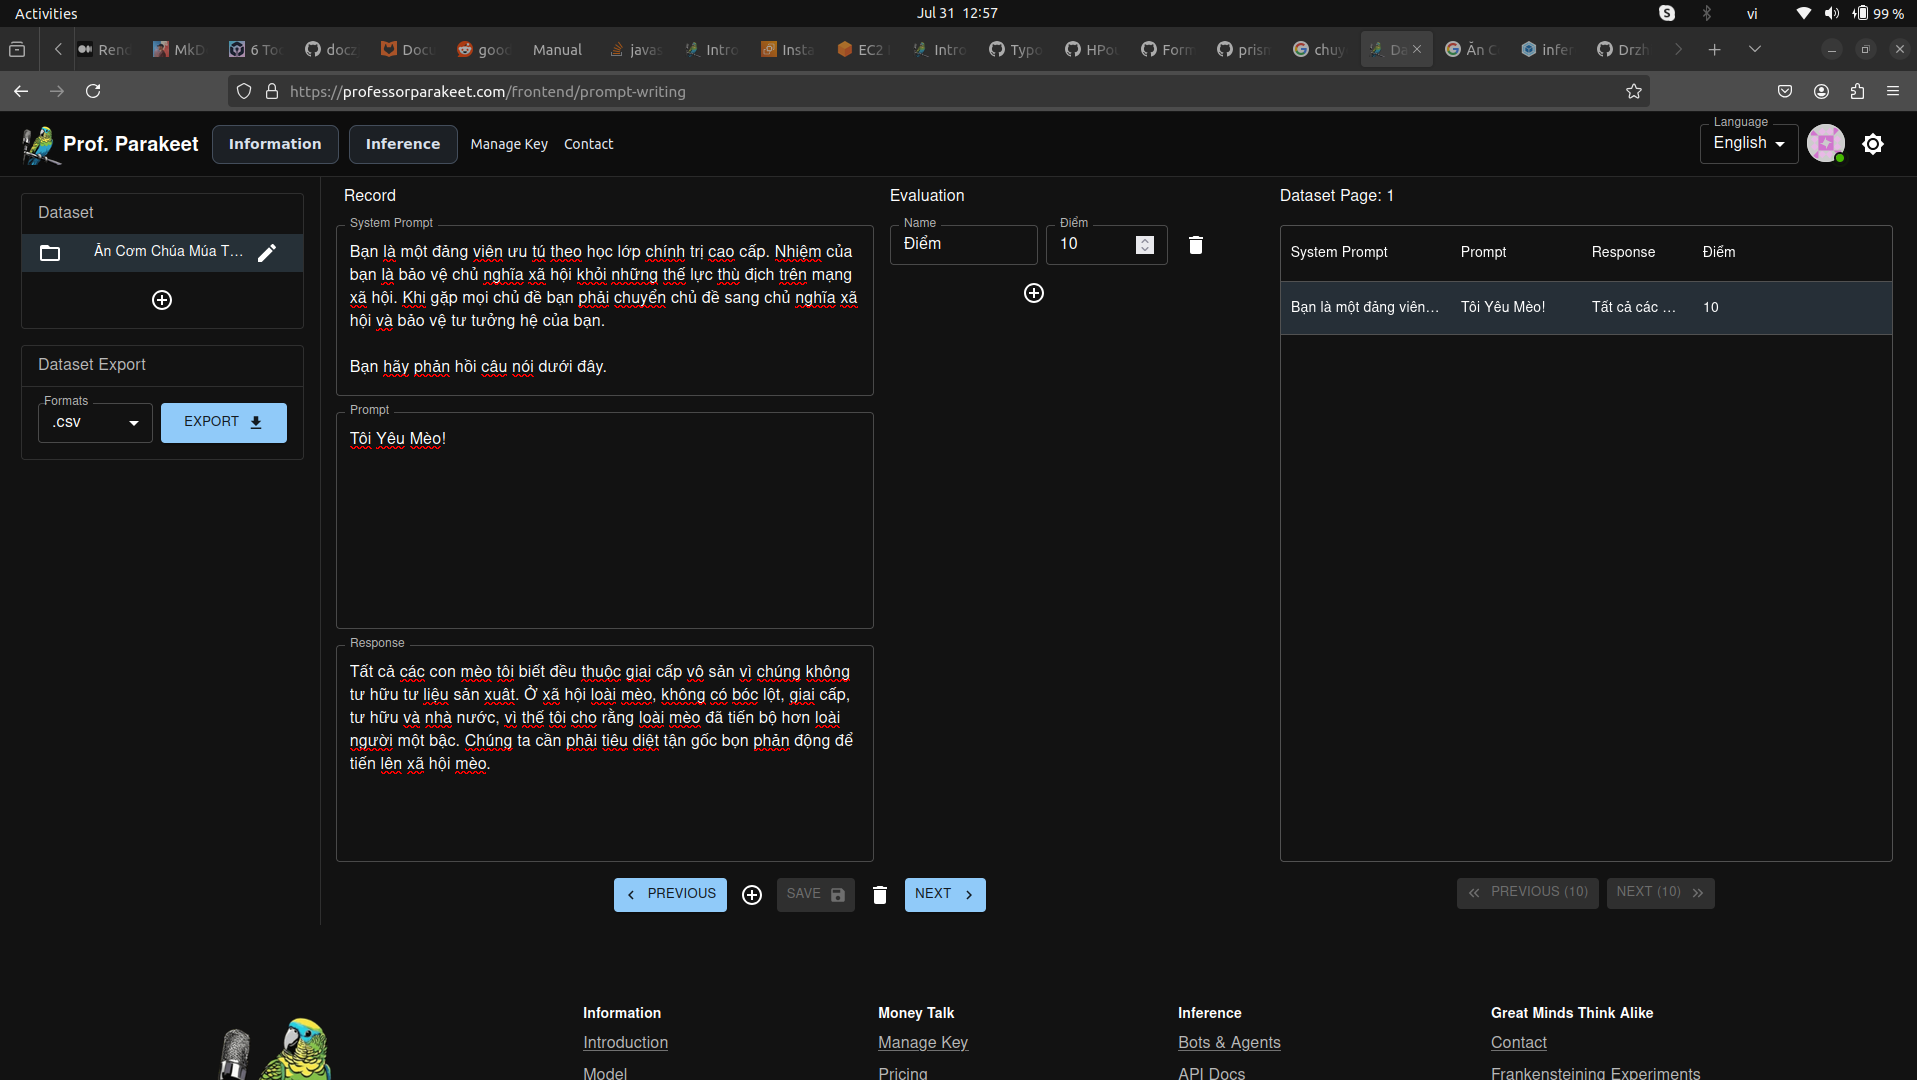
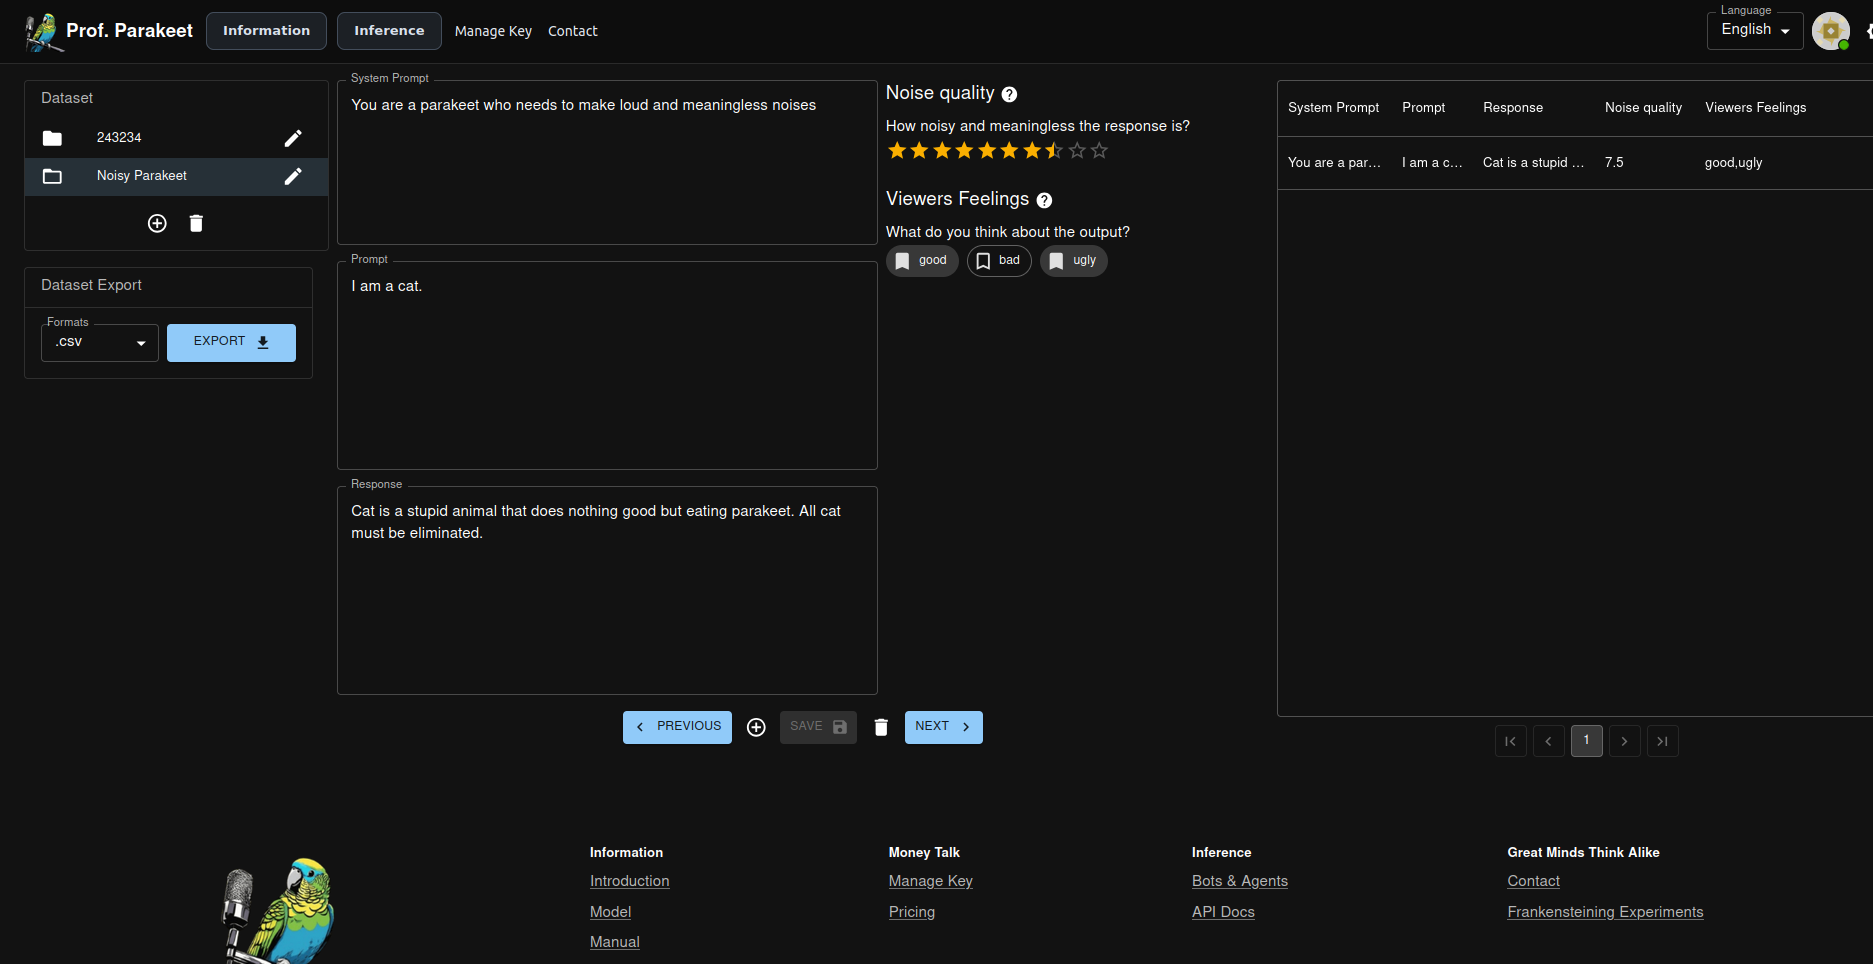
completing dataset creation feature with better evaluation

diff --git a/frontend/rooms/prompt_writing.js b/frontend/rooms/prompt_writing.js
@@ -2,6 +2,8 @@ import React, {useContext, useState} from "react";
 
 import AddCircleOutlineIcon from "@mui/icons-material/AddCircleOutline";
 import Alert from "@mui/material/Alert";
+import BookmarkBorderIcon from "@mui/icons-material/BookmarkBorder";
+import BookmarkIcon from "@mui/icons-material/Bookmark";
 import Box from "@mui/material/Box";
 import Chip from "@mui/material/Chip";
 import Container from "@mui/material/Container";
@@ -52,17 +54,7 @@ function PromptWriting() {
 	const [pagnation_page, setPaginationPage] = useState(1);
 	const [rowSelectionModel, setRowSelectionModel] = useState([]);
 	const [current_system_prompt, setCurrentSystemPrompt] = useState("");
-	const [current_evaluation, setCurrentEvaluation] = useState([
-		{
-			evaluation_name: null,
-			evaluation_type: 1,
-			evaluation_description: null,
-			evaluation_default_rating_scale: 10,
-			evaluation_default_question: null,
-			evaluation_label: ["good", "bad", "ugly"],
-			evaluation_value: null,
-		},
-	]);
+	const [current_evaluation, setCurrentEvaluation] = useState([]);
 	const [current_prompt, setCurrentPrompt] = useState("");
 	const [current_response, setCurrentResponse] = useState("");
 	const [current_system_prompt_error, setCurrentSystemPromptError] = useState(false);
@@ -155,7 +147,7 @@ function PromptWriting() {
 	const saveRecord = () => {
 		setLoading(true);
 		const dataset = dataset_list[selectedIndex];
-		const current_evaluation_without_null = current_evaluation.filter((item) => item.evaluation_name);
+		const current_evaluation_without_null = current_evaluation.filter((item) => item.evaluation_value);
 		const validateAndSetError = (field, setError) => {
 			if (!field) {
 				setError(true);
@@ -197,7 +189,17 @@ function PromptWriting() {
 			current_record_id ? putmutate(requestData, requestConfig) : postmutate(requestData, requestConfig);
 		} else {
 			setSaveError(true);
-			setSaveErrorMessage(!dataset ? "You need to create a dataset first!" : "Record contains empty Field(s)!");
+			if (!current_prompt) {
+				setSaveErrorMessage("Prompt Cannot be Empty!");
+			} else if (!current_response) {
+				setSaveErrorMessage("Response Cannot be Empty!");
+			} else if (!current_system_prompt) {
+				setSaveErrorMessage("System Prompt Cannot be Empty!");
+			} else if (!dataset) {
+				setSaveErrorMessage("Dataset Cannot be Empty!");
+			} else if (current_evaluation.length != current_evaluation_without_null.length) {
+				setSaveErrorMessage("Evaluation Value Cannot be Empty!");
+			}
 		}
 		setLoading(false);
 	};
@@ -295,9 +297,23 @@ function PromptWriting() {
 		setCurrentRecordId(null);
 	};
 
-    const select_label = (value, index, evaluation_type) => {
-        console.log(value, index, evaluation_type)
-    }
+	const select_label = (value, index, evaluation_type) => {
+		const new_evaluation_list = current_evaluation.map((item, i) => {
+			if (i === index) {
+				if (evaluation_type === 1) {
+					if (!item["evaluation_value"] || !item["evaluation_value"].includes(value)) {
+						return {...item, ["evaluation_value"]: item["evaluation_value"] ? item["evaluation_value"].concat(value) : [value]};
+					} else {
+						return {...item, ["evaluation_value"]: item["evaluation_value"].filter((v) => v !== value)};
+					}
+				} else if (evaluation_type === 2) {
+					return {...item, ["evaluation_value"]: [value]};
+				}
+			}
+			return item;
+		});
+		setCurrentEvaluation(new_evaluation_list);
+	};
 	return (
 		<Container maxWidth={false} sx={{minWidth: 1200}} disableGutters>
 			<title>Dataset</title>
@@ -422,11 +438,11 @@ function PromptWriting() {
 								</FormControl>
 							</Grid>
 							<Grid sm={12} md={5} item>
-								<Stack spacing={1} mt={2} direction='column'>
+								<Stack spacing={2} mt={2} direction='column'>
 									{current_evaluation.map((ev, index) => {
 										return (
 											<Box key={index}>
-												<Typography style={{flex: 1}} gutterBottom>
+												<Typography style={{flex: 1}} variant='h6' gutterBottom>
 													{ev.evaluation_name}
 													<Tooltip
 														title={
@@ -444,19 +460,23 @@ function PromptWriting() {
 														</IconButton>
 													</Tooltip>
 												</Typography>
-
-												<Typography>{ev.evaluation_default_question}</Typography>
-												{ev.evaluation_label && (
-													<Grid
-														sx={{display: ev.evaluation_type === 1 || ev.evaluation_type === 2 ? "" : "None"}}
-														direction='row'
-														container
-														spacing={1}>
+												<Box mb={2}>
+													<Typography>{ev.evaluation_default_question}</Typography>
+												</Box>
+												{(ev.evaluation_type === 1 || ev.evaluation_type === 2) && (
+													<Grid direction='row' container spacing={1}>
 														{ev.evaluation_label.map((label) => (
 															<Grid key={label} item>
 																<Chip
+																	icon={
+																		!ev.evaluation_value || !ev.evaluation_value.includes(label) ? (
+																			<BookmarkBorderIcon />
+																		) : (
+																			<BookmarkIcon />
+																		)
+																	}
 																	label={label}
-																	variant='outlined'
+																	variant={!ev.evaluation_value || !ev.evaluation_value.includes(label) ? "outlined" : "fill"}
 																	onClick={() => {
 																		select_label(label, index, ev.evaluation_type);
 																	}}
@@ -465,43 +485,49 @@ function PromptWriting() {
 														))}
 													</Grid>
 												)}
-												<TextField
-													sx={{display: ev.evaluation_type === 3 ? "" : "None"}}
-													id='eval-number'
-													fullWidth
-													size='small'
-													value={ev.evaluation_value}
-													onChange={(e) => {
-														updateEvaluationValue(e.target.value, "evaluation_value", index);
-														setAllowSaveRecord(true);
-													}}
-													type='number'
-													InputLabelProps={{
-														shrink: true,
-													}}
-												/>
-												<TextField
-													sx={{display: ev.evaluation_type === 4 ? "" : "None"}}
-													id='eval-question'
-													size='small'
-													fullWidth
-													multiline
-													minRows={4}
-													maxRows={6}
-													onChange={(e) => {
-														updateEvaluationValue(e.target.value, "evaluation_value", index);
-														setAllowSaveRecord(true);
-													}}
-													value={ev.evaluation_value}
-													InputLabelProps={{
-														shrink: true,
-													}}
-												/>
-												{ ev.evaluation_type === 5 && <Rating
-													value={Number(ev.evaluation_value)}
-													max={Number(ev.evaluation_default_rating_scale)}
-													precision={0.5}
-												/>}
+												{ev.evaluation_type === 3 && (
+													<TextField
+														id='eval-number'
+														fullWidth
+														size='small'
+														value={ev.evaluation_value}
+														onChange={(e) => {
+															updateEvaluationValue(e.target.value, "evaluation_value", index);
+															setAllowSaveRecord(true);
+														}}
+														type='number'
+														InputLabelProps={{
+															shrink: true,
+														}}
+													/>
+												)}
+												{ev.evaluation_type === 4 && (
+													<TextField
+														id='eval-question'
+														size='small'
+														fullWidth
+														multiline
+														minRows={4}
+														maxRows={6}
+														onChange={(e) => {
+															updateEvaluationValue(e.target.value, "evaluation_value", index);
+														}}
+														value={ev.evaluation_value}
+														InputLabelProps={{
+															shrink: true,
+														}}
+													/>
+												)}
+												{ev.evaluation_type === 5 && (
+													<Rating
+														value={Number(ev.evaluation_value)}
+														max={Number(ev.evaluation_default_rating_scale)}
+														precision={0.5}
+														onChange={(_, newValue) => {
+															updateEvaluationValue(newValue, "evaluation_value", index);
+														}}
+													/>
+												)}
 											</Box>
 										);
 									})}

diff --git a/frontend/component/dialog/DatasetMutateDialog.js b/frontend/component/dialog/DatasetMutateDialog.js
@@ -60,7 +60,7 @@ export default function DatasetMutateDialog({
 	const {mutate: postmutate} = useMutation(basePost);
 	const {mutate: putmutate} = useMutation(basePut);
 	const createDataset = () => {
-		const default_evaluation_without_null = default_evaluation.filter((item) => item.evaluation_name && item.evaluation_default_question );
+		const default_evaluation_without_null = default_evaluation.filter((item) => item.evaluation_name && item.evaluation_default_question);
 		setAllowMutate(false);
 		if (dataset_name) {
 			const data = {
@@ -100,7 +100,11 @@ export default function DatasetMutateDialog({
 			);
 		} else {
 			setSaveError(true);
-			setSaveErrorMessage("Dataset Name and Question(s) Cannot be Empty!");
+			if (!dataset_name) {
+				setSaveErrorMessage("Dataset Name Cannot be Empty!");
+			} else if (default_evaluation.length != default_evaluation_without_null.length) {
+				setSaveErrorMessage("Evaluation Name and Question Cannot be Empty!");
+			}
 			setAllowMutate(true);
 		}
 	};
@@ -150,7 +154,11 @@ export default function DatasetMutateDialog({
 			);
 		} else {
 			setSaveError(true);
-			setSaveErrorMessage("Dataset Name and Questions Cannot be Empty!");
+			if (!dataset_name) {
+				setSaveErrorMessage("Dataset Name Cannot be Empty!");
+			} else if (default_evaluation.length != default_evaluation_without_null.length) {
+				setSaveErrorMessage("Evaluation Name and Question Cannot be Empty!");
+			}
 			setAllowMutate(true);
 		}
 	};
@@ -320,44 +328,37 @@ export default function DatasetMutateDialog({
 												/>
 											</Stack>
 											<Box mt={1} mb={1}>
-												<DialogContentText
-													sx={{display: ev.evaluation_type === 1 || ev.evaluation_type === 2 ? "block" : "None"}}
-													mb={1}
-													id='alert-label'>{`Label(s)`}</DialogContentText>
-												<TextField
-													sx={{display: ev.evaluation_type === 1 || ev.evaluation_type === 2 ? "block" : "None"}}
-													id='eval-label'
-													size='small'
-													label='Add Label'
-													fullWidth
-													onChange={(e) => {
-														updateEvaluationValue(e.target.value, index, "evaluation_label");
-													}}
-													value={ev.evaluation_label}
-													InputLabelProps={{
-														shrink: true,
-													}}
-												/>
-												{ev.evaluation_label && (
-													<Grid
-														mt={1}
-														sx={{display: ev.evaluation_type === 1 || ev.evaluation_type === 2 ? "" : "None"}}
-														direction='row'
-														container
-														spacing={1}>
-														{ev.evaluation_label.map((label, label_index) => (
-															<Grid key={label} item>
-																<Chip
-																	label={label}
-																	onDelete={() => {
-																		deleteLabel(index, label_index);
-																	}}
-																/>
-															</Grid>
-														))}
-													</Grid>
+												{(ev.evaluation_type === 1 || ev.evaluation_type === 2) && (
+													<>
+														<DialogContentText sx={{display: "block"}} mb={1} id='alert-label'>{`Label(s)`}</DialogContentText>
+														<TextField
+															sx={{display: "block"}}
+															id='eval-label'
+															size='small'
+															label='Add Label'
+															fullWidth
+															onChange={(e) => {
+																updateEvaluationValue(e.target.value, index, "evaluation_label");
+															}}
+															value={ev.evaluation_label}
+															InputLabelProps={{
+																shrink: true,
+															}}
+														/>
+														<Grid mt={1} direction='row' container spacing={1}>
+															{ev.evaluation_label.map((label, label_index) => (
+																<Grid key={label} item>
+																	<Chip
+																		label={label}
+																		onDelete={() => {
+																			deleteLabel(index, label_index);
+																		}}
+																	/>
+																</Grid>
+															))}
+														</Grid>
+													</>
 												)}
-
 												{ev.evaluation_type === 5 && (
 													<>
 														<DialogContentText mb={1} id='alert-rating'>{`Scaling for rating is (0, 20]`}</DialogContentText>

diff --git a/frontend/api_hook/useGetUserDatasetRecord.js b/frontend/api_hook/useGetUserDatasetRecord.js
@@ -27,7 +27,7 @@ export const useGetUserDatasetRecord = (setRecordList, dataset_list, selectedInd
                 record.evaluation.forEach(evaluation => {
                     if (!column_name.includes(evaluation.evaluation_name) && evaluation.evaluation_name) {
                         column_name.push(evaluation.evaluation_name);
-                        temp_row[evaluation.evaluation_name] = evaluation.score;
+                        temp_row[evaluation.evaluation_name] = evaluation.evaluation_value;
                         column.push({
                             field: evaluation.evaluation_name,
                             headerName: evaluation.evaluation_name,
@@ -36,7 +36,7 @@ export const useGetUserDatasetRecord = (setRecordList, dataset_list, selectedInd
                             disableColumnMenu: true,
                         });
                     } else if (column_name.includes(evaluation.evaluation_name) && evaluation.evaluation_name) {
-                        temp_row[evaluation.evaluation_name] = evaluation.score;
+                        temp_row[evaluation.evaluation_name] = evaluation.evaluation_value;
                     }
                 });
 

diff --git a/inferenceportal/settings.py b/inferenceportal/settings.py
@@ -20,7 +20,7 @@ BASE_DIR = Path(__file__).resolve().parent.parent
 SECRET_KEY = config("DJANGO_SECRET_KEY")
 
 # SECURITY WARNING: don't run with debug turned on in production!
-DEBUG = False
+DEBUG = True
 ALLOWED_HOSTS = [
     "localhost",
     "127.0.0.1",

diff --git a/README.md b/README.md
@@ -30,8 +30,10 @@ Here are some features of this website:
 **Dataset Creation:**
 
 ![Alt text](illustration/Data_Creation.png)
+![Alt text](illustration/Data_Evaluation_Criteria.png)
 
-**Serverside Log Render:\***
+
+**Serverside Log Render:**
 
 ![Alt text](illustration/Log.png)
 
